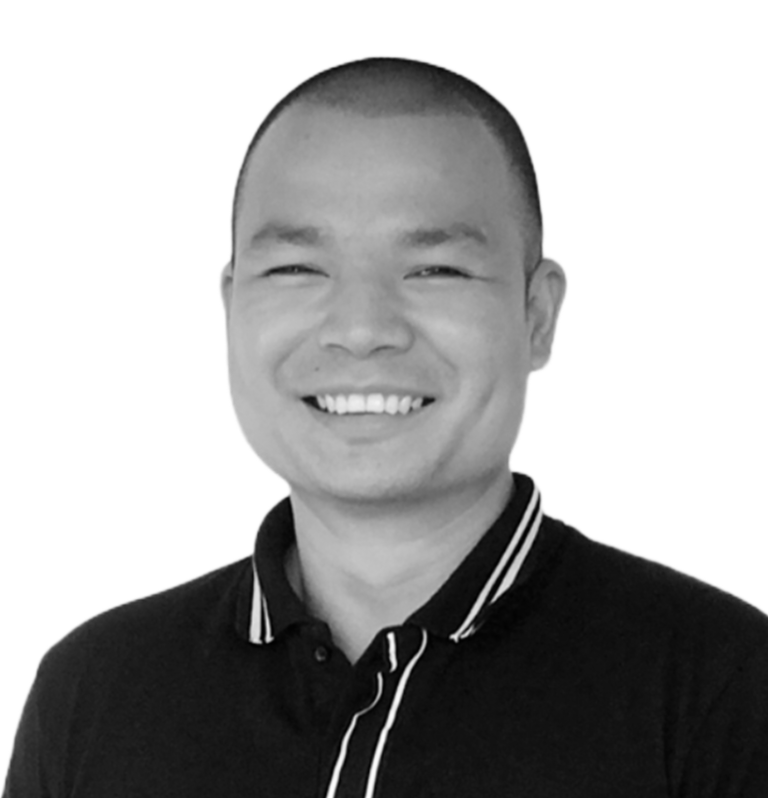
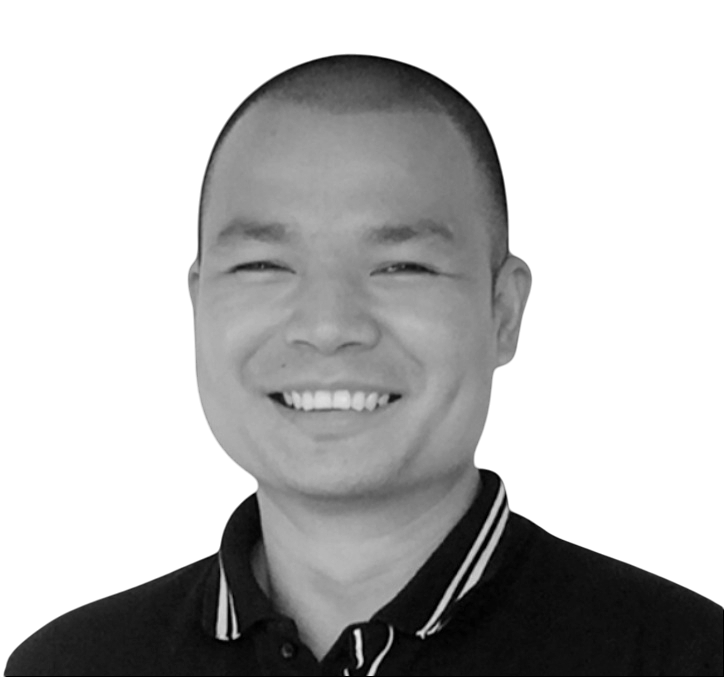
Daily update

Changed region(s): [[0.0, 0.062, 1.0, 1.0], [0.5773, 0.8996, 0.6077, 0.9616], [0.6077, 0.4963, 0.6381, 0.5273]]

diff --git a/src/components/molecules/GeneralInfo.tsx b/src/components/molecules/GeneralInfo.tsx
@@ -4,12 +4,12 @@ import SocialCard from "./SocialCard";
 
 export default () => {
     return (
-        <div className={'w-full flex flex-col justify-around'}>
+        <div className={'w-full flex flex-col justify-around mt-6'}>
             <div className="flex flex-col gap-6">
                 <GradientTextCard className="uppercase text-xs tracking-[0.125rem] font-semibold">
                     {GeneralInfo.role}
                 </GradientTextCard>
-                <div className="text-4xl sm:text-5xl">
+                <div className="text-4xl sm:text-5xl font-medium">
                     {GeneralInfo.description}
                 </div>
                 <div className="text-lg">

diff --git a/src/components/molecules/Avatar.tsx b/src/components/molecules/Avatar.tsx
@@ -4,7 +4,7 @@ import Image from "../atoms/Image";
 export default (): React.ReactNode => {
     return (
         <div className={'w-full'}>
-            <Image src={GeneralInfo.avatar} alt="Avatar" />
+            <Image src={GeneralInfo.avatar} alt="Avatar" className="rounded-full" />
         </div>
     )
 }

diff --git a/src/index.css b/src/index.css
@@ -25,7 +25,7 @@
 }
 
 [data-theme="dark"] {
-  --color-main: #1a1c1e; /* main background color */
+  --color-main: #111111; /* main background color */
   --color-text: #ffffff; /* main text color */
   --color-main-accent: #0000001a;
   --blur-main-accent: 24px;

diff --git a/src/constants/GeneralInfo.ts b/src/constants/GeneralInfo.ts
@@ -1,4 +1,4 @@
-import Avatar from "../assets/black-square.png";
+import Avatar from "../assets/avatar-black-white.png";
 
 type GeneralInfoObject = {
     [key: string]: any
